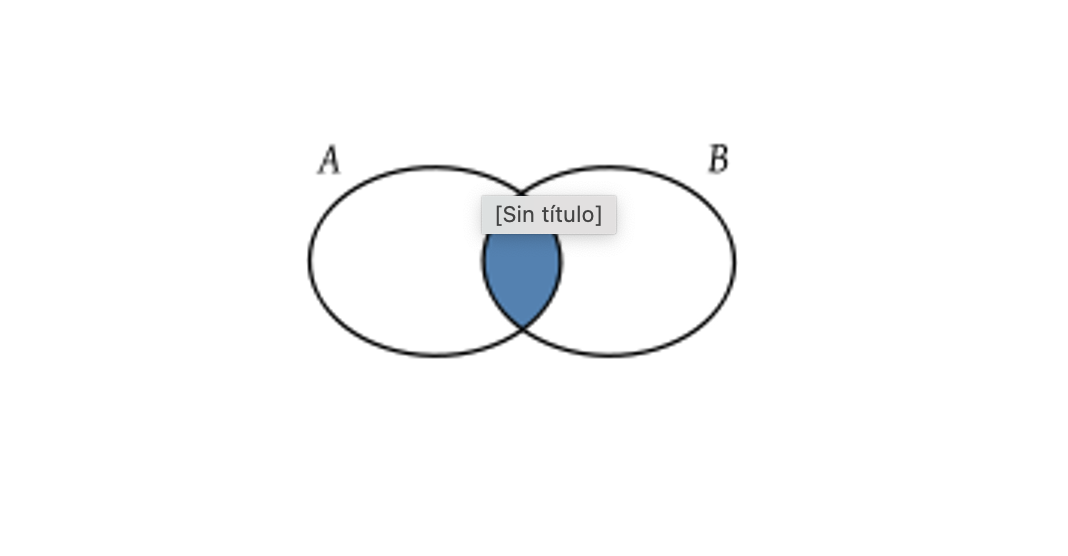
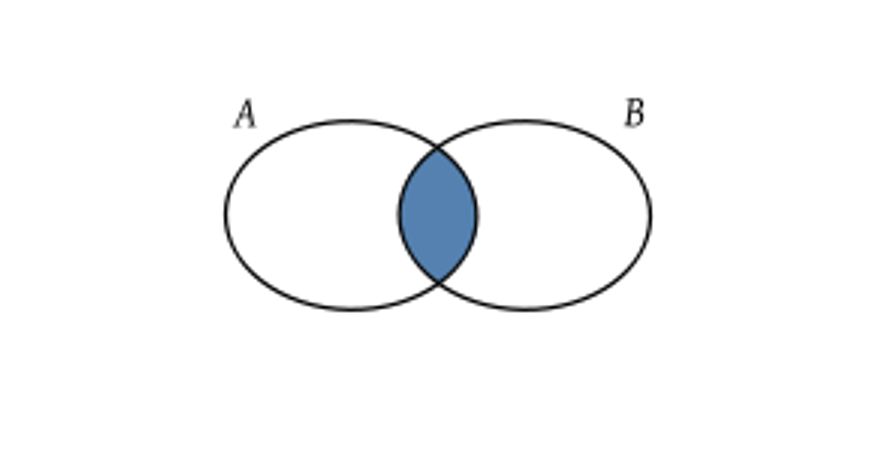
final

Changed region(s): [[0.2449, 0.2168, 0.7653, 0.7124], [0.6429, 0.3407, 0.6735, 0.4027]]

diff --git a/Conjuntos.html b/Conjuntos.html
@@ -131,20 +131,15 @@
       <div class="contenedor-slides">    
           <ul class="slider">
             <li id="slide7">
-              <img src="img/Ope3.1.PNG"/>
+              <img src="img/Ope9.1.png"/>
             </li>
             <li id="slide8">
-              <img src="img/Ope3.2.PNG"/>
+              <img src="img/Ope9.2.png"/>
             </li>
             <li id="slide9">
-              <p class="enunciados">Realice el ejercicio para saber cuanto dinero gasto Oscar</p>  
+              <p class="enunciados">Ingrese el numero que corresponde a la operacion de interseccion</p>  
               <div class="enunciados-head">
-                  <img style = "width: 100px; height: 100px" src="img/Dinero.PNG"/>
-                  <p style = "margin-top: 30px; font-size: 30px; font-weight: bold; color: blueviolet; margin-right: 10px">500</p>
-                  <img style = "width: 50px; height: 50px; margin-top: 25px" src="img/Resta.jpg"/>
-                  <img style = "width: 100px; height: 100px" src="img/Dinero.PNG"/>
-                  <p style = "margin-top: 30px; font-size: 30px; font-weight: bold; color: blueviolet; margin-right: 10px; ">125</p>
-                  <img style = "width: 50px; height: 50px; margin-top: 25px; margin-right: 10px" src="img/elmeromeroigual.png"/>
+                  <img style = "width: 370px; height: 130px" src="img/Ope9.3.png"/>
                   <input style = "border-radius: 5px; background-color: rgba(197, 136, 255, 0.705); border: 0; max-lines: 2; width: 180px; height: 50px; margin-right: 10px; margin-top: 25px" maxlength="3" type="text" placeholder="Escriba el resultado" id="user3">
                   <input style = "border-radius: 5px; background-color: aqua; width: 180px; height: 50px; margin-right: 10px; margin-top: 25px; border: 0" type="button" value="Comprobar" onclick="Operacion2();">
 
@@ -251,17 +246,14 @@
                  }
              } 
              function Operacion2() {
-                 var N6 = 500;
-                 var N7 = 125;
-                 var Res;
-                 Res = N6 - N7;
+                 var Conj3 = 4;
                  var resUs = parseInt(document.getElementById("user3").value);
                  var puntaje = document.getElementById("mostrar_puntaje");
                  let resuelto = false;
                  if(resuelto == true){
                     alert("Ya lo resolvió")
                  }else{
-                    if(resUs == Res){
+                    if(resUs == Conj3){
                       alert("Bien");
                       resuelto = true;
                       var pun = 10;
